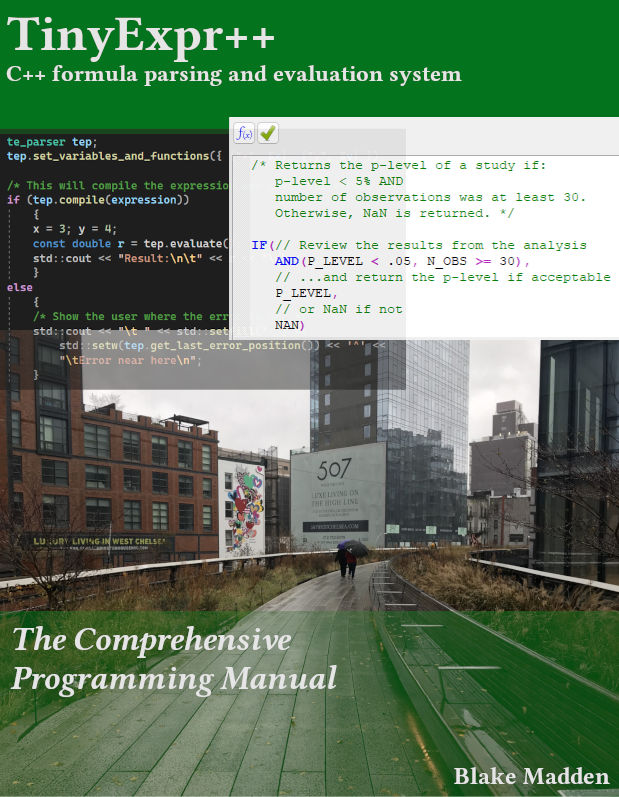
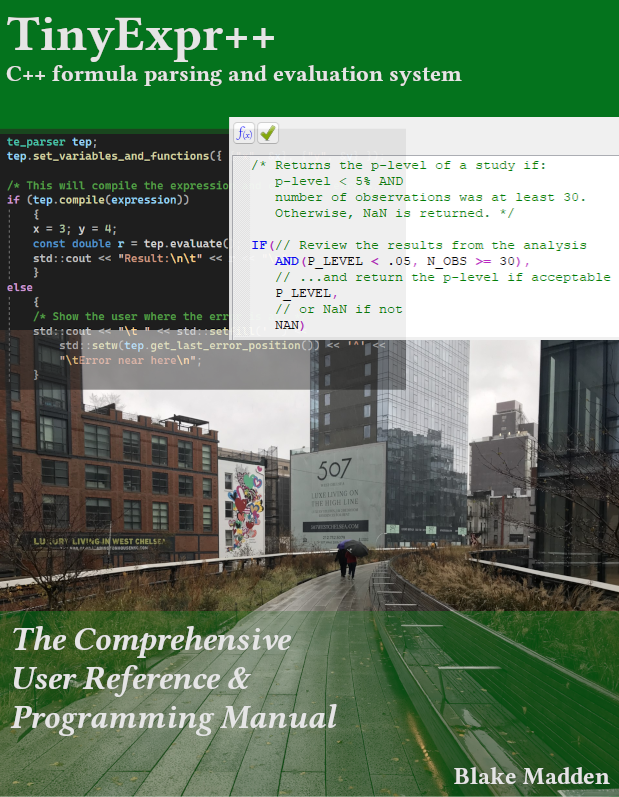
Change subtitle, add cover of manual on main page

Changed region(s): [[0.0, 0.813, 0.5525, 0.9335]]

diff --git a/README.md b/README.md
@@ -1,6 +1,8 @@
-<img alt="TinyExpr logo" src="docs/tinyexpr_logo.png" width="350" align="right"/>
+<img alt="TinyExpr logo" src="docs/tinyexpr_logo.png" width="200" align="left"/>
 
 # TinyExpr++
+
+<a href="docs/TinyExpr++ReferenceManual.pdf"><img alt="Manual" src="docs/manual/images/cover.png" width="200" align="right"/></a>
 
 TinyExpr++ is the C++ version of the [TinyExpr](https://github.com/codeplea/tinyexpr) library, which is a small
 recursive-descent parser and evaluation engine for math expressions.
@@ -25,7 +27,7 @@ for a full list of features.
 
 ## Compatibility Advisory
 
-Note: for current users of TinyExpr++, please see the [compatibility advisory](CompatibilityAdvisory.md) for recent changes.
+Note: for current users of *TinyExpr++*, please see the [compatibility advisory](CompatibilityAdvisory.md) for recent changes.
 
 ## Embedded Programming
 
